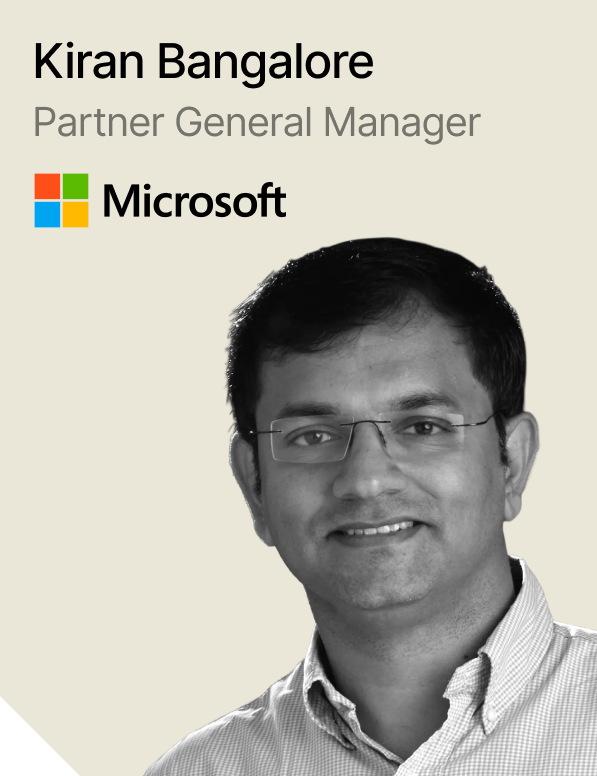
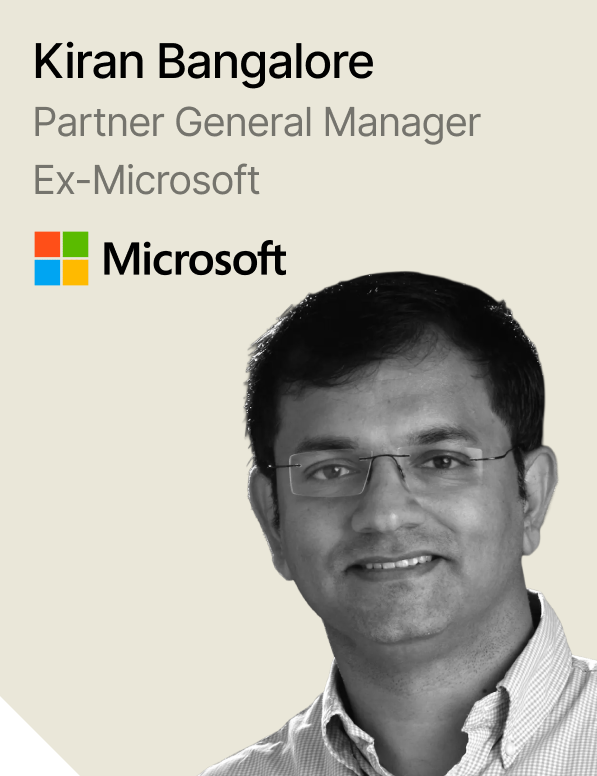
Mentors: Kiran Bangalore's updated card (Ex-Microsoft) from Figma

Changed region(s): [[0.0302, 0.1856, 1.0, 1.0]]

diff --git a/src/app/landing/content.ts b/src/app/landing/content.ts
@@ -108,7 +108,7 @@ export const content = {
         label: "Judges",
         list: [
           { name: "Pratik Poddar", role: "Partner", company: "Nexus Venture Partners", photo: "/brand/mentors/pratik-poddar.png" },
-          { name: "Kiran Bangalore", role: "Partner General Manager", company: "Microsoft", photo: "/brand/mentors/kiran-bangalore.png" },
+          { name: "Kiran Bangalore", role: "Partner General Manager", company: "Ex-Microsoft", photo: "/brand/mentors/kiran-bangalore.png" },
         ],
       },
       {
